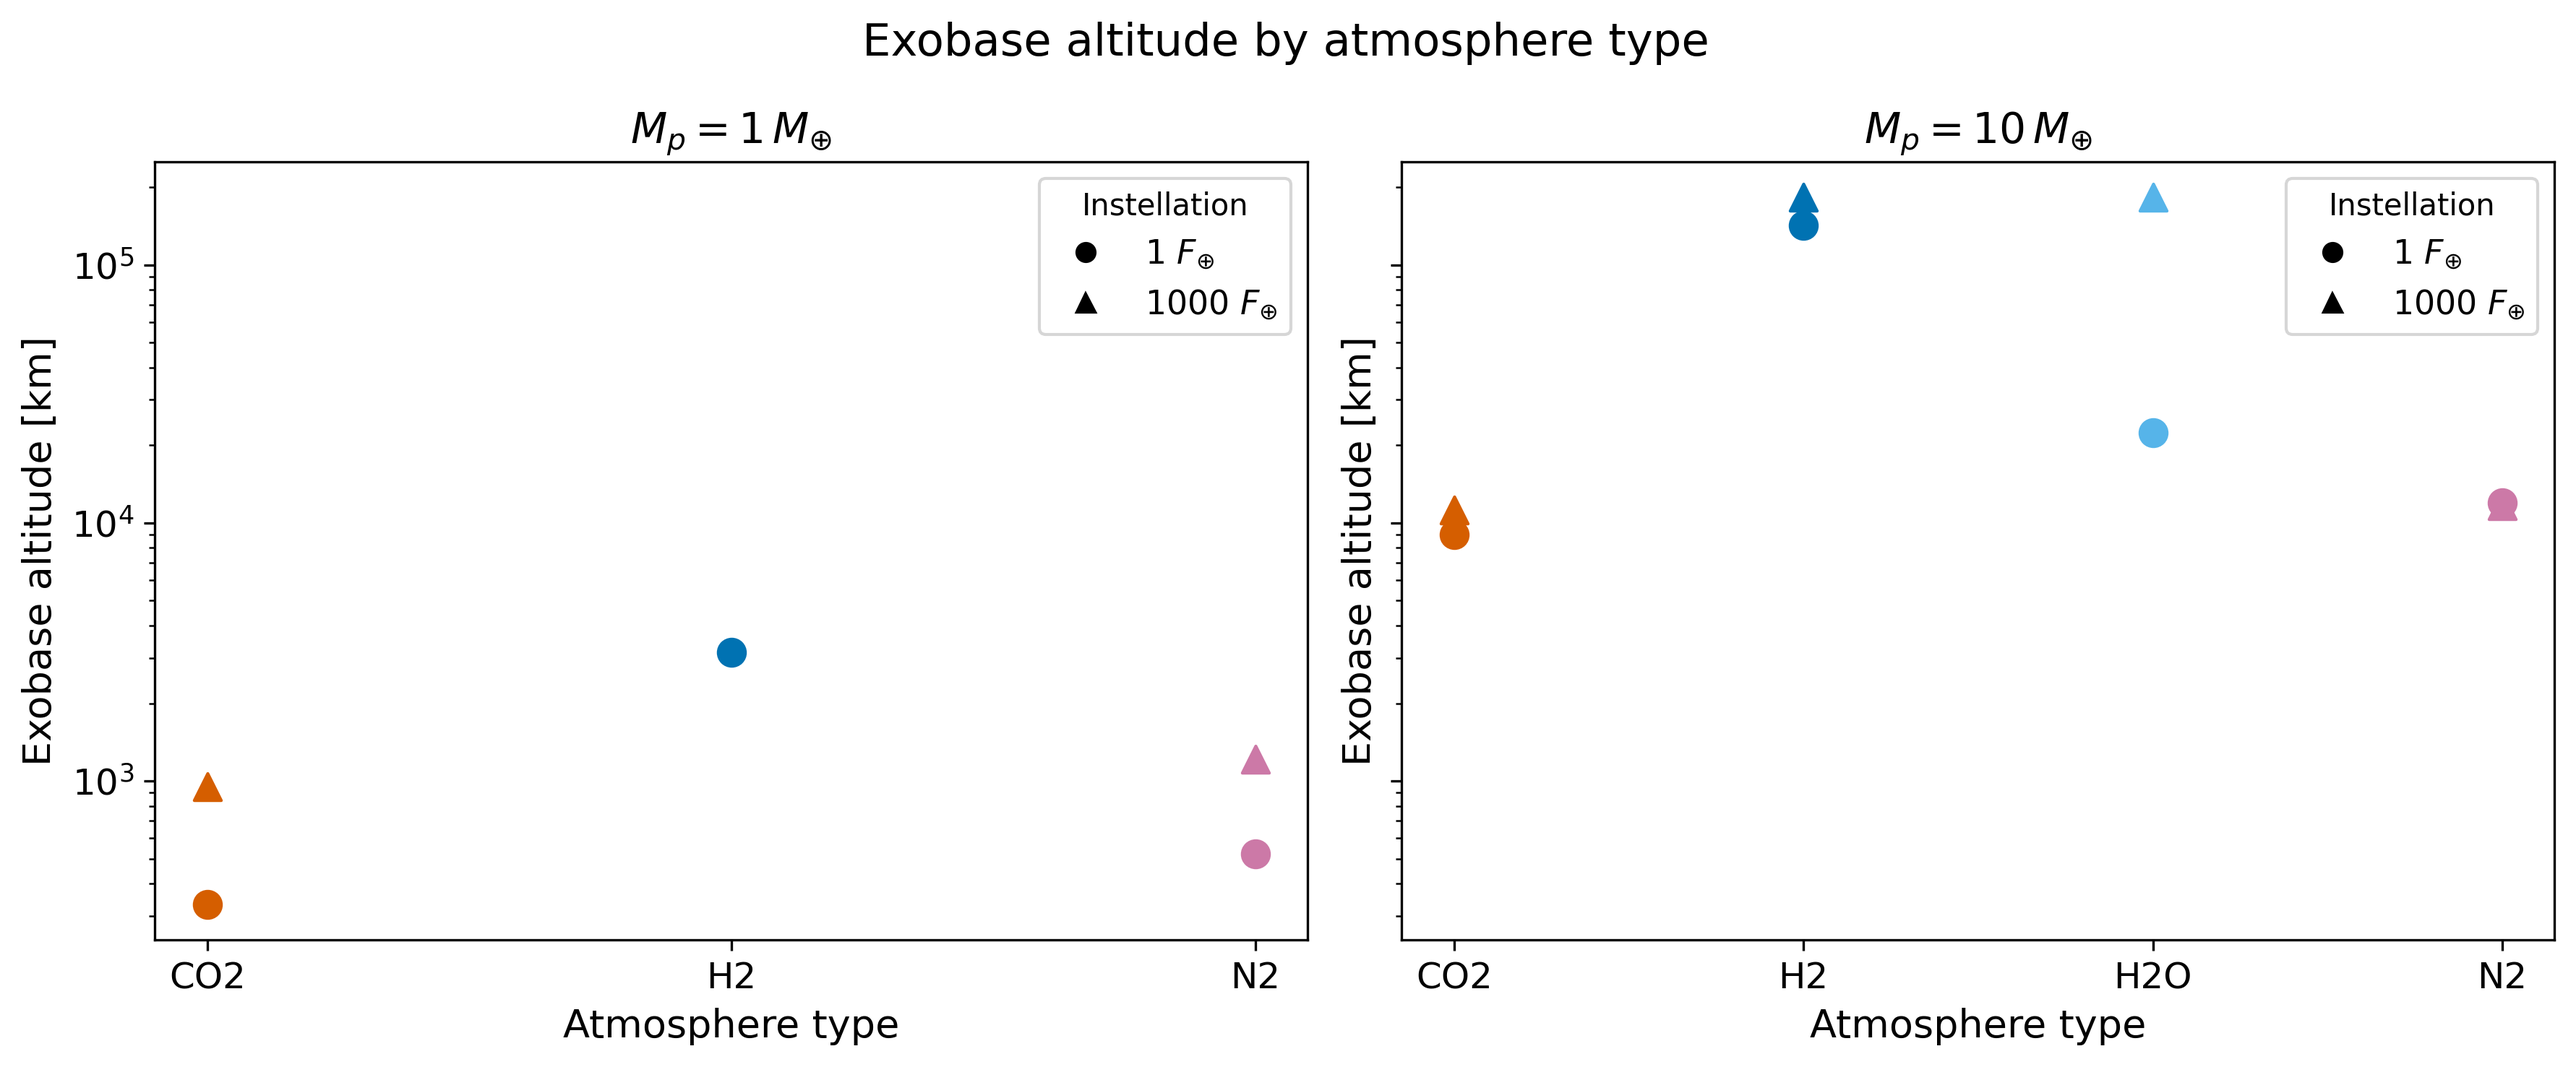
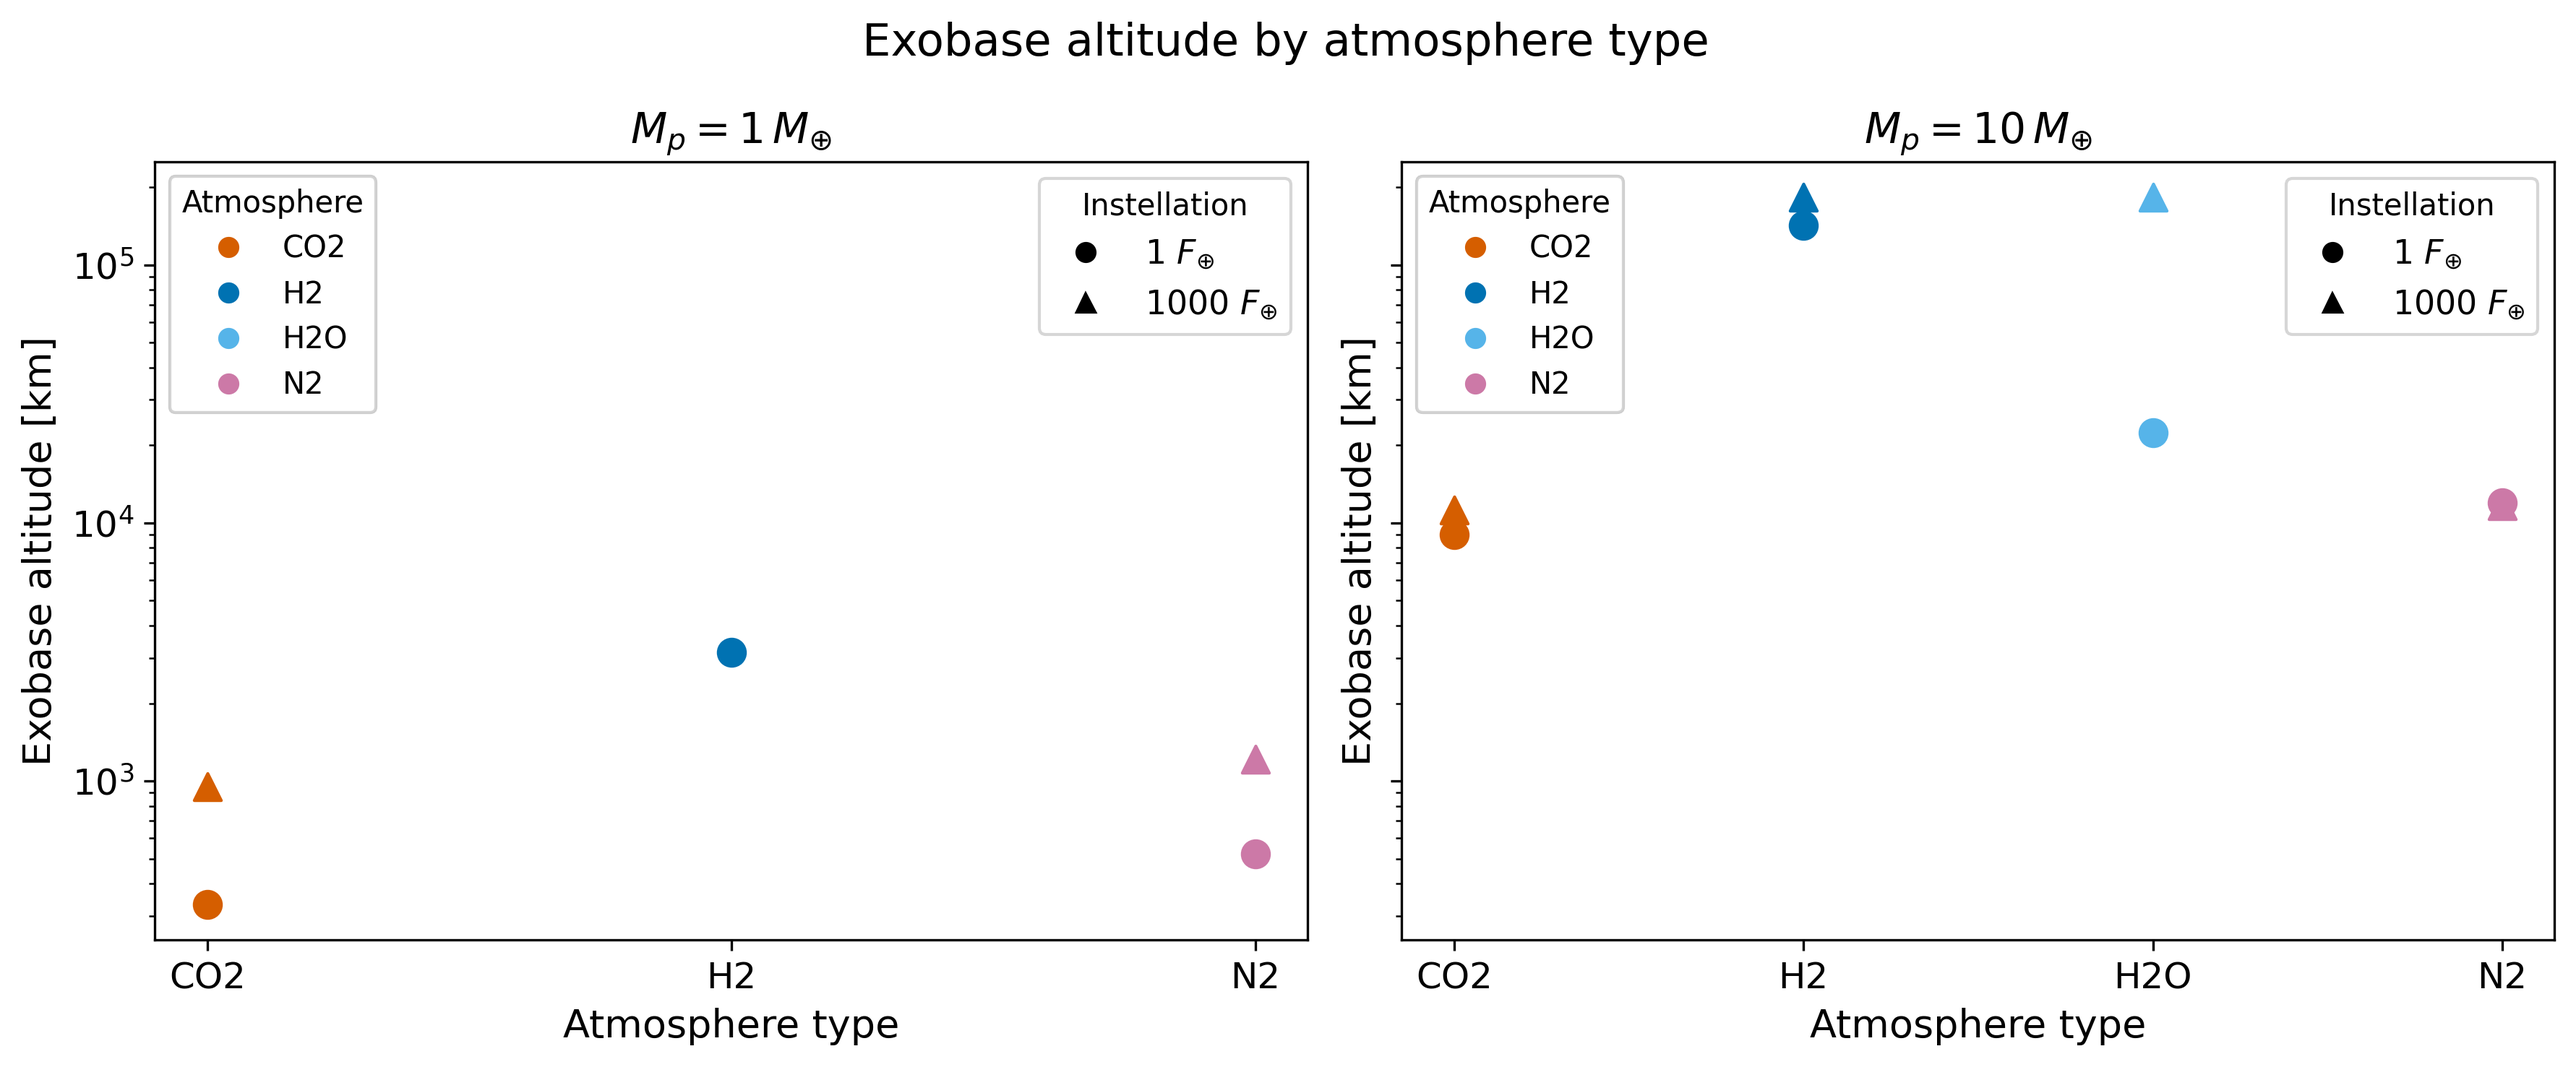
added legend where missing

diff --git a/plotter.py b/plotter.py
@@ -92,6 +92,10 @@ for idx, mas in enumerate(mass):
     ax.set_ylabel(r"$\log_{10}(\dot{M}_{weighted})$ [kg/s]")
     ax.set_title(mass_labels[mas], fontsize=14)
     ax.tick_params(axis="both", which="major", labelsize=12)
+    first_legend = axes[1].legend(handles=atm_handles, title="Atmosphere", loc="upper left")
+    axes[1].add_artist(first_legend)
+    first_legend = axes[0].legend(handles=atm_handles, title="Atmosphere", loc="upper left")
+    axes[0].add_artist(first_legend)
 
     axes[1].legend(handles=flux_legend, title="Instellation", fontsize=11)
     axes[0].legend(handles=flux_legend, title="Instellation", fontsize=11)
@@ -191,6 +195,10 @@ for idx, mas in enumerate(mass):
 
     axes[0].set_ylabel("Exobase altitude [km]", fontsize=13)
     axes[1].set_ylabel("Exobase altitude [km]", fontsize=13)
+    first_legend = axes[1].legend(handles=atm_handles, title="Atmosphere", loc="upper left")
+    axes[1].add_artist(first_legend)
+    first_legend = axes[0].legend(handles=atm_handles, title="Atmosphere", loc="upper left")
+    axes[0].add_artist(first_legend)
 
     axes[1].legend(handles=flux_legend, title="Instellation", fontsize=11)
     axes[0].legend(handles=flux_legend, title="Instellation", fontsize=11)
